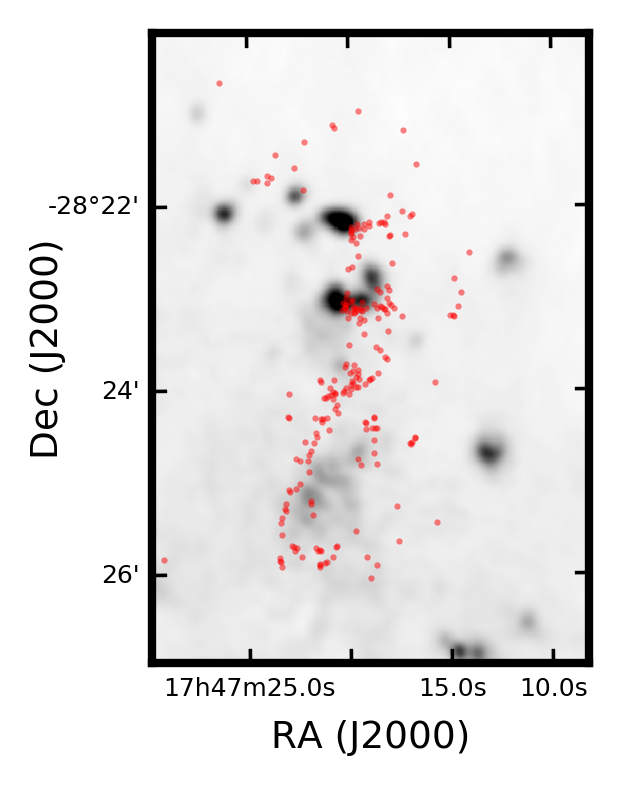
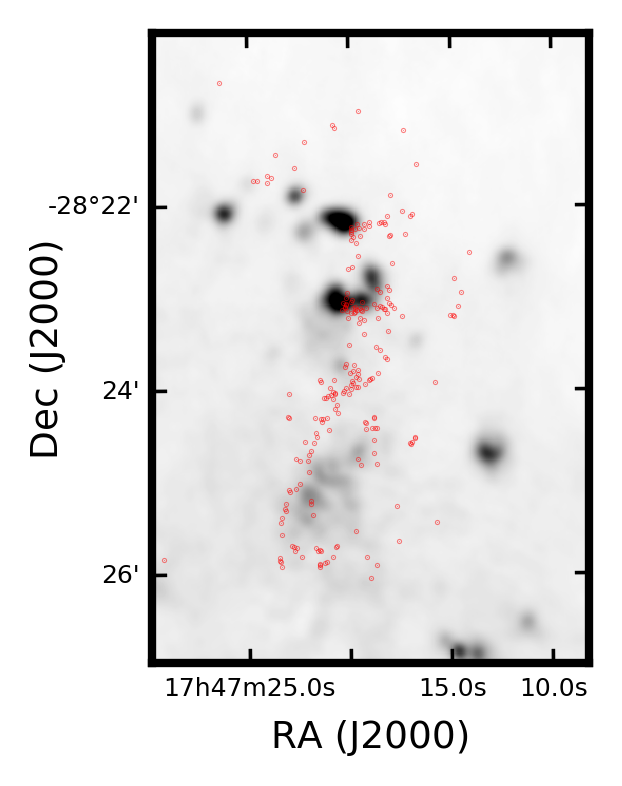
shrink a figure

diff --git a/tex_cores/sgrb2_cores.tex b/tex_cores/sgrb2_cores.tex
@@ -387,7 +387,7 @@ these) except for column, which is in units of cm$^{-2}$ of \hh as derived from
 SED fits to Herschel data (Battersby+).  The grey line is of the observed
 region in Sgr B2 and the blue line is of G0.253+0.016.  The thick grey line is
 the CDF of core background brightness, and is labeled by the right axis.}
-{fig:fluxhist}{1}{20cm}
+{fig:fluxhist}{1}{\textwidth}
 
 
 
